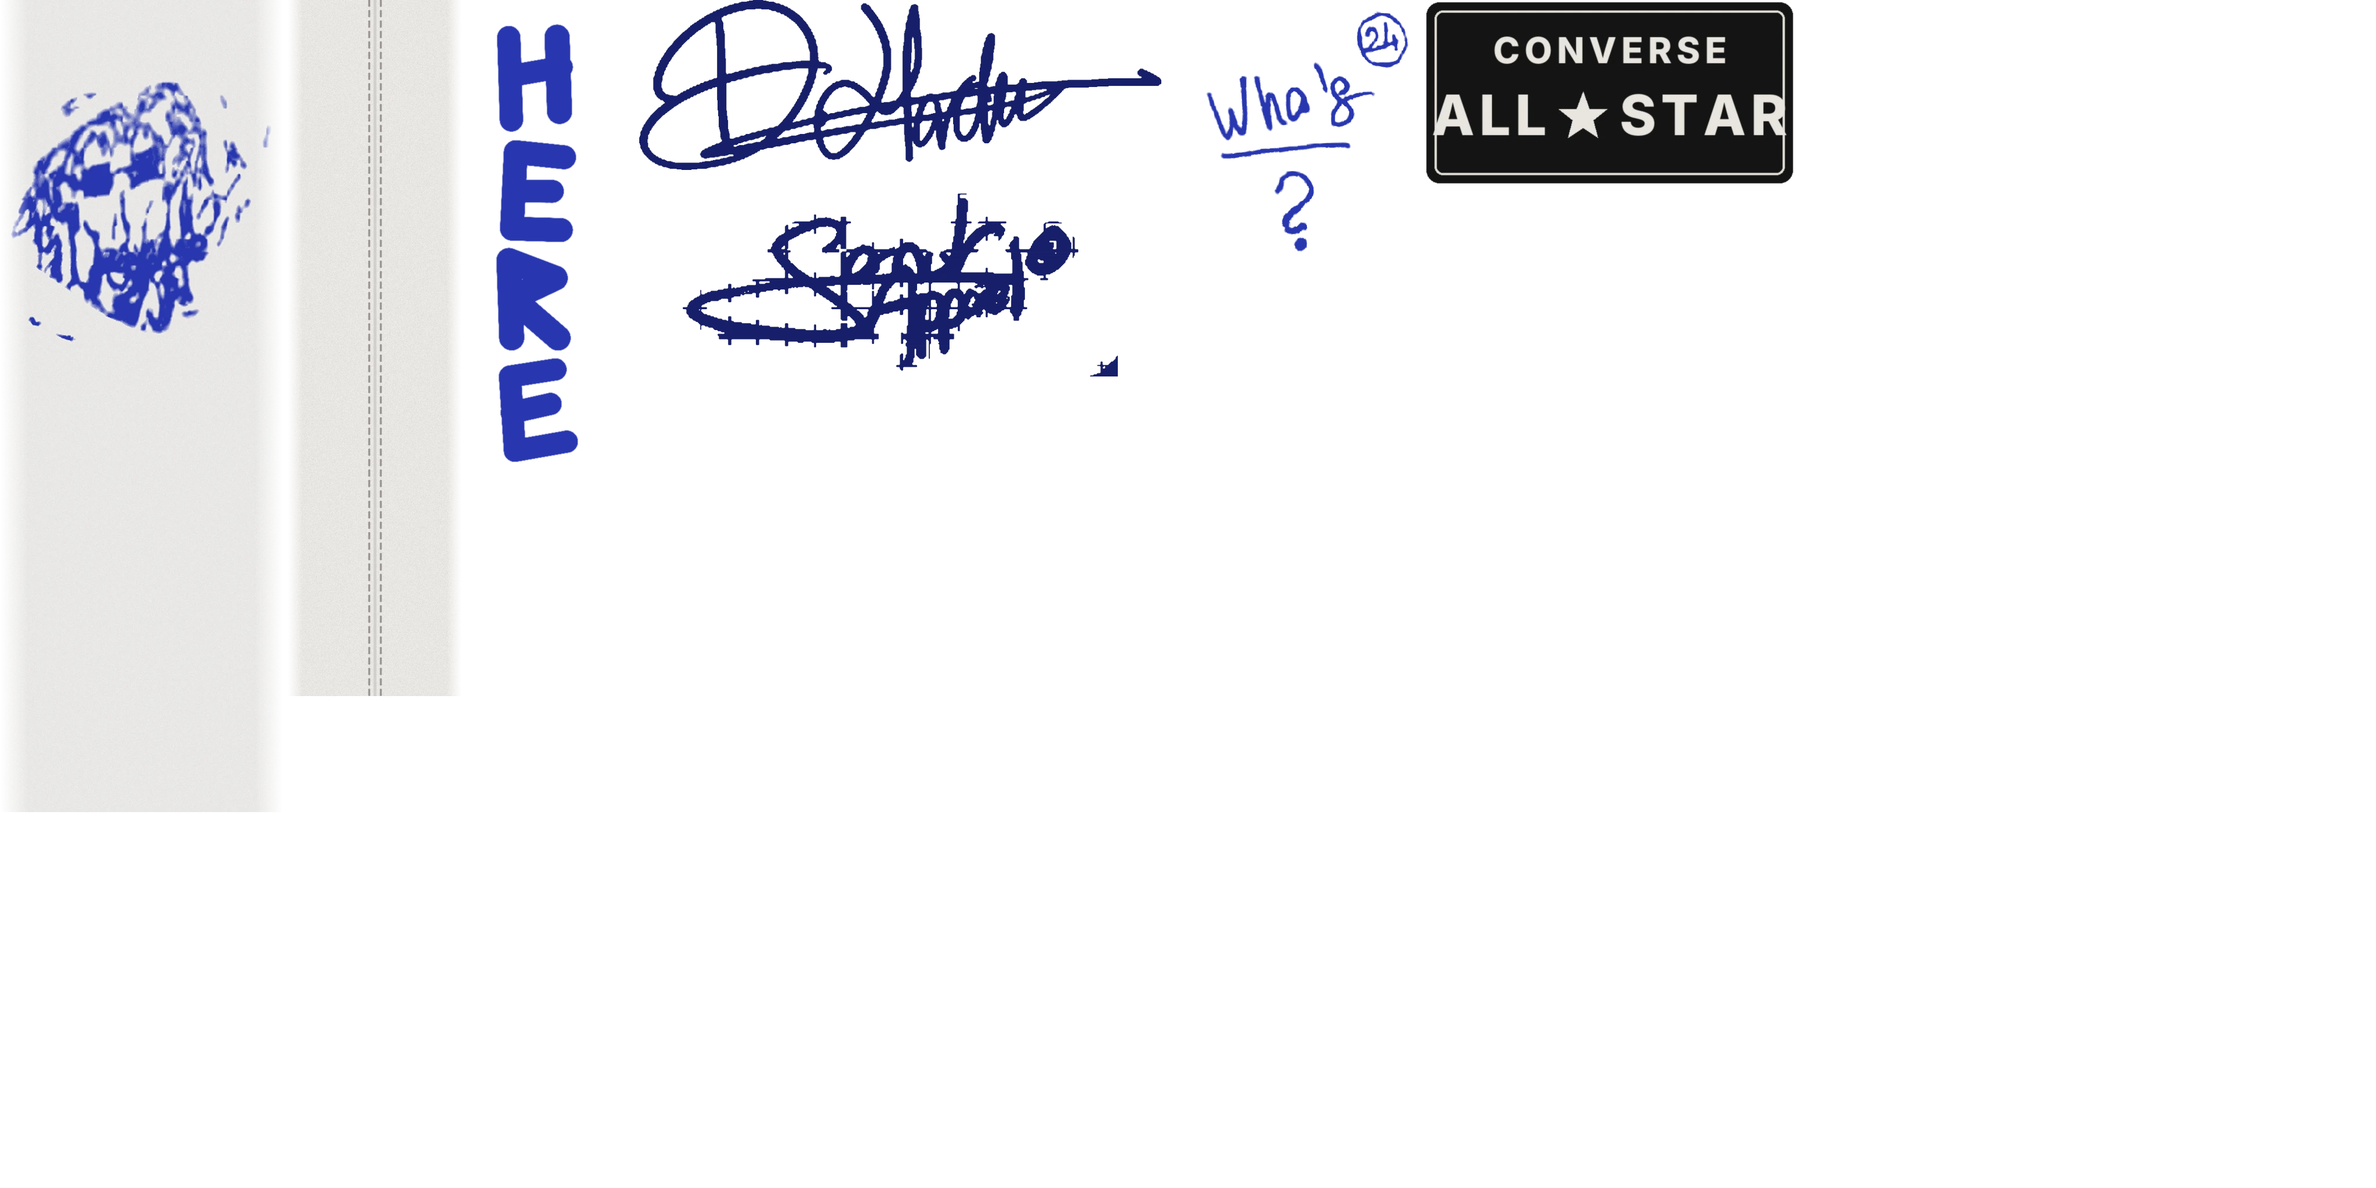
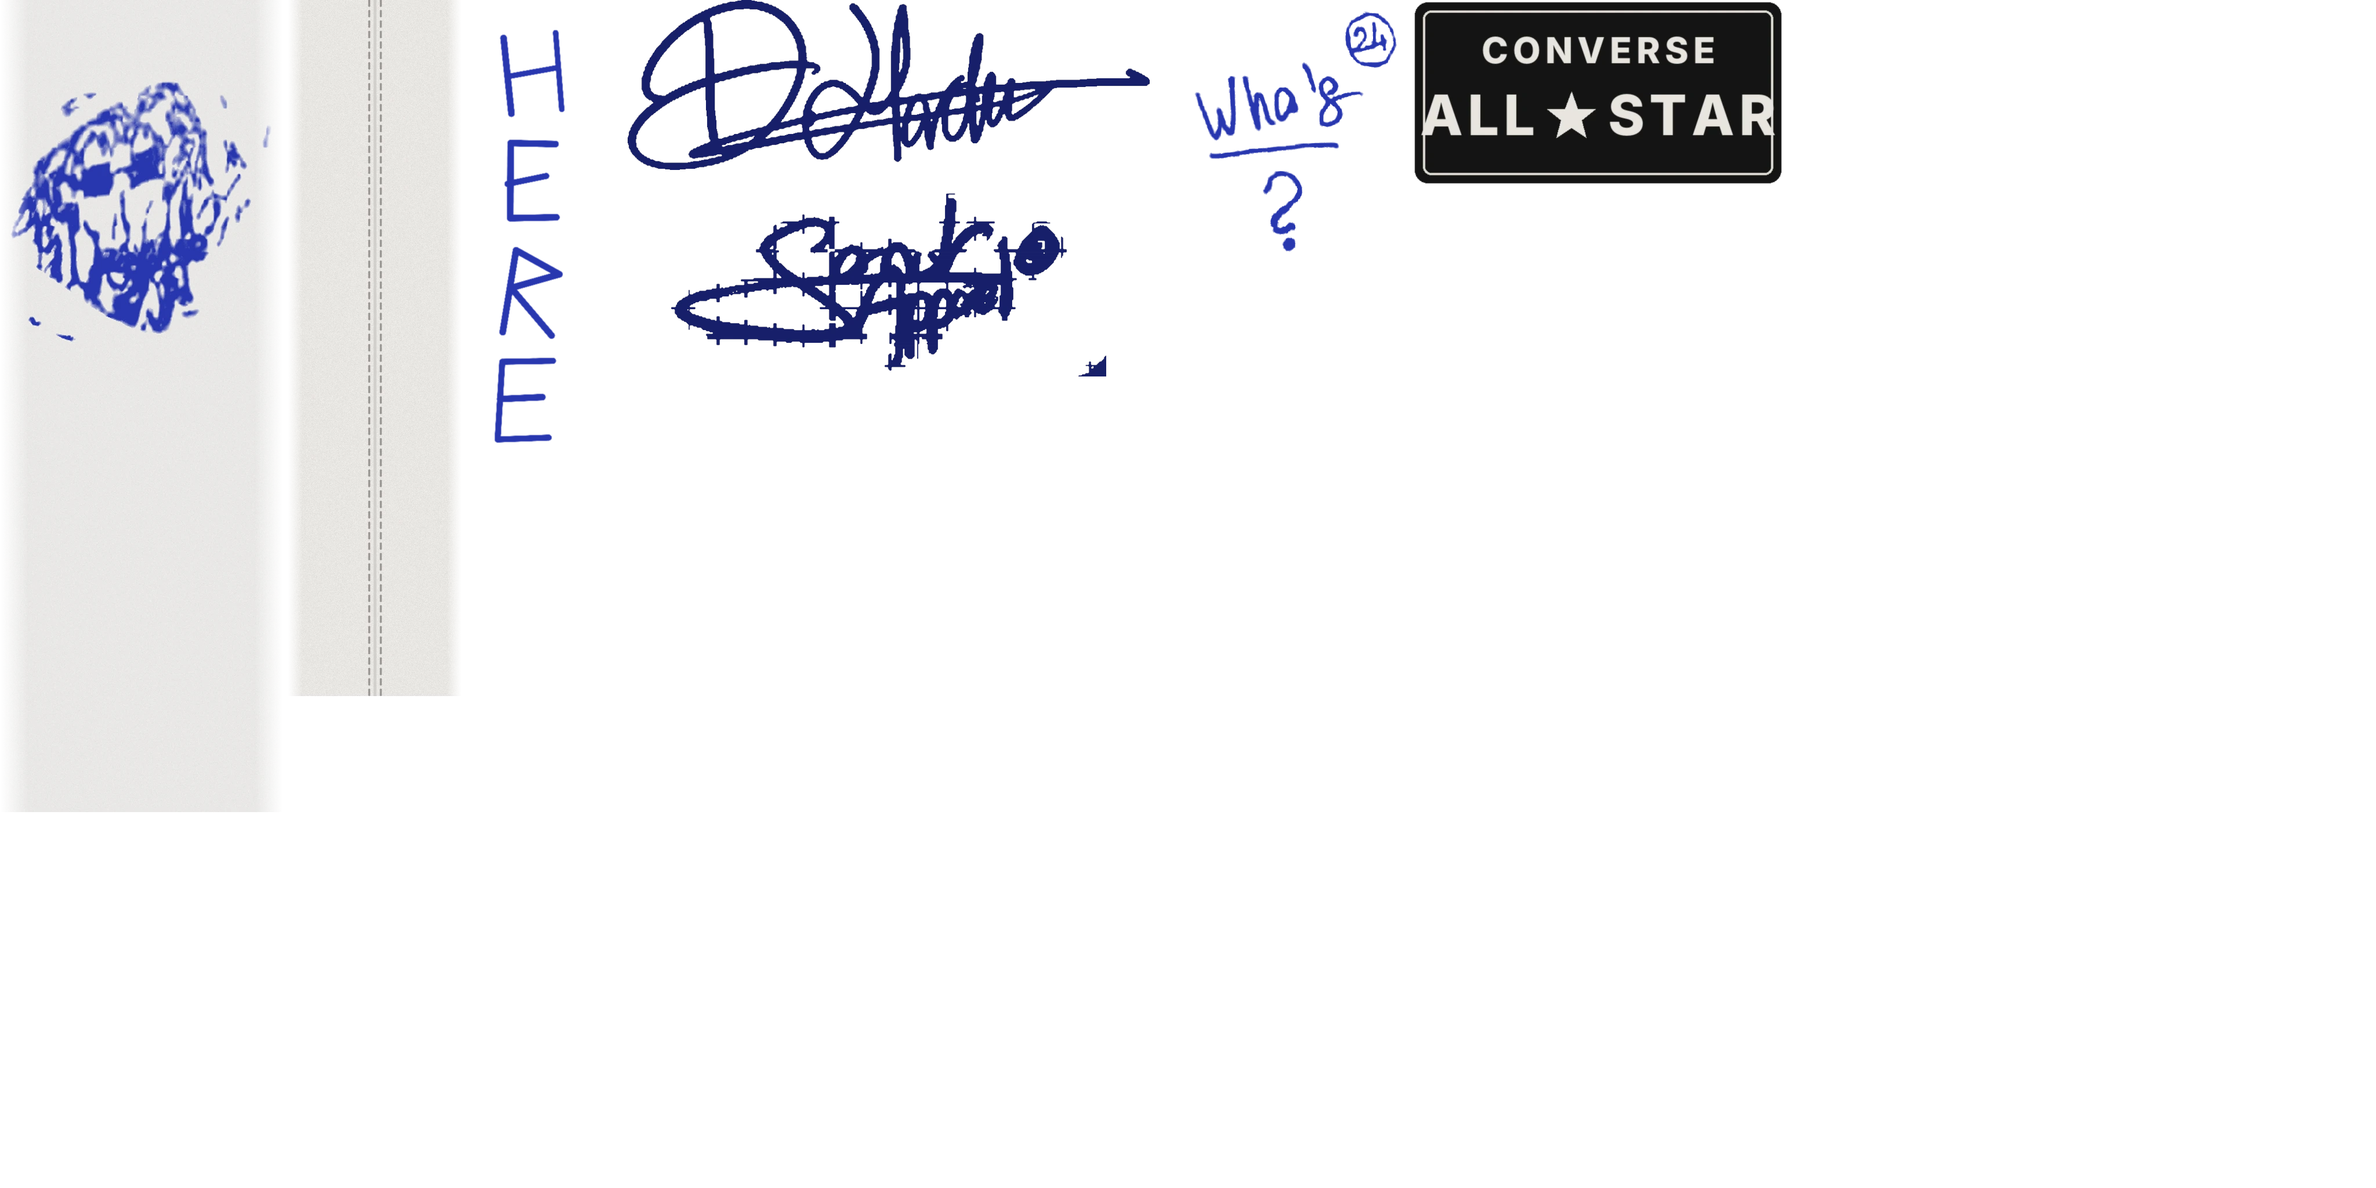
Chuck Taylor All Star: DINHO/HERE redrawn at pen weight to match the drawings
Claude-Session: https://claude.ai/code/session_0114D3hwBVCmsXTQfgBtgPvQ

diff --git a/site/public/collabs/chuck/viewer_dl.html b/site/public/collabs/chuck/viewer_dl.html
@@ -61,7 +61,7 @@
 <div id="osd"><span>SONDR × Chuck Taylor All Star</span><span>By D·Hardin</span><span data-k="side">1 of 1</span></div>
 <button id="swap" type="button">Switch shoe</button>
 <div id="hint"></div>
-<script>window.SHOE_TEX={};window.SHOE_PLAIN={"len": 1.899094045162201, "rot": 3.14159, "x": -0.0008183844275664875, "y": 0.315031198614529, "z": -0.006334423976093603, "decals": [{"tex": "art/heel_back.png", "axis": "x", "n": [1, 0, 0], "c": [0.9, 0.06, 0.0], "w": 0.17, "h": 0.78, "r": [0.1212158203125, 0.414306640625, 0.1942138671875, 0.999755859375]}, {"tex": "art/dinho.png", "axis": "x", "n": [1, 0, 0], "c": [0.9, 0.06, 0.0], "w": 0.14, "h": 0.6, "r": [0.1964111328125, 0.497314453125, 0.2547607421875, 0.999755859375]}, {"tex": "art/heel_tag.webp", "axis": "x", "n": [1, 0, 0], "c": [0.94, -0.485, 0.005], "w": 0.2, "h": 0.1, "r": [0.6029052734375, 0.843994140625, 0.7589111328125, 0.999755859375]}, {"tex": "art/red_tongue_face.png", "n": [-0.7, 0.71, 0], "c": [-0.24, 0.095, 0.0], "w": 0.38, "h": 0.95, "depth": 0.26, "dot": 0.25, "r": [0.0001220703125, 0.316650390625, 0.1190185546875, 0.999755859375]}, {"tex": "art/red_tongue_top.png", "n": [-0.918, 0.394, -0.03], "c": [0.13, 0.5, -0.018], "w": 0.27, "h": 0.22, "r": [0.5030517578125, 0.783935546875, 0.6007080078125, 0.999755859375]}, {"tex": "art/red_vamp_sigs.png", "n": [-0.228, 0.974, 0.0], "c": [-0.592, -0.19, 0.004], "w": 0.2, "h": 0.15, "depth": 0.06, "dot": 0.3, "r": [0.2569580078125, 0.683349609375, 0.5008544921875, 0.999755859375]}], "atlas": "art/red_dl_atlas.webp"};window.SHOE_PLAINS=[{"len": 1.899094045162201, "rot": 3.14159, "x": -0.0008183844275664875, "y": 0.315031198614529, "z": -0.006334423976093603, "decals": [{"tex": "art/heel_back.png", "axis": "x", "n": [1, 0, 0], "c": [0.9, 0.06, 0.0], "w": 0.17, "h": 0.78, "r": [0.1212158203125, 0.414306640625, 0.1942138671875, 0.999755859375]}, {"tex": "art/dinho.png", "axis": "x", "n": [1, 0, 0], "c": [0.9, 0.06, 0.0], "w": 0.14, "h": 0.6, "r": [0.1964111328125, 0.497314453125, 0.2547607421875, 0.999755859375]}, {"tex": "art/heel_tag.webp", "axis": "x", "n": [1, 0, 0], "c": [0.94, -0.485, 0.005], "w": 0.2, "h": 0.1, "r": [0.6029052734375, 0.843994140625, 0.7589111328125, 0.999755859375]}, {"tex": "art/red_tongue_face.png", "n": [-0.7, 0.71, 0], "c": [-0.24, 0.095, 0.0], "w": 0.38, "h": 0.95, "depth": 0.26, "dot": 0.25, "r": [0.0001220703125, 0.316650390625, 0.1190185546875, 0.999755859375]}, {"tex": "art/red_tongue_top.png", "n": [-0.918, 0.394, -0.03], "c": [0.13, 0.5, -0.018], "w": 0.27, "h": 0.22, "r": [0.5030517578125, 0.783935546875, 0.6007080078125, 0.999755859375]}, {"tex": "art/red_vamp_sigs.png", "n": [-0.228, 0.974, 0.0], "c": [-0.592, -0.19, 0.004], "w": 0.2, "h": 0.15, "depth": 0.06, "dot": 0.3, "r": [0.2569580078125, 0.683349609375, 0.5008544921875, 0.999755859375]}], "atlas": "art/red_dl_atlas.webp"}, {"len": 1.897956669330597, "rot": 3.14159, "x": -0.0003866086017067795, "y": 0.3013974216602634, "z": 0.0006739974934986049, "decals": [{"tex": "art/heel_back.png", "axis": "x", "n": [1, 0, 0], "c": [0.88, 0.06, -0.05], "w": 0.17, "h": 0.78, "r": [0.1212158203125, 0.414306640625, 0.1942138671875, 0.999755859375]}, {"tex": "art/here.png", "axis": "x", "n": [1, 0, 0], "c": [0.88, 0.08, -0.05], "w": 0.14, "h": 0.49, "r": [0.1964111328125, 0.590087890625, 0.2547607421875, 0.999755859375]}, {"tex": "art/heel_tag.webp", "axis": "x", "n": [1, 0, 0], "c": [0.94, -0.485, -0.045], "w": 0.2, "h": 0.1, "r": [0.5994873046875, 0.843994140625, 0.7554931640625, 0.999755859375]}, {"tex": "art/blue_tongue_face.png", "n": [-0.7, 0.71, 0], "c": [-0.24, 0.06, -0.04], "w": 0.38, "h": 0.95, "depth": 0.26, "dot": 0.25, "r": [0.0001220703125, 0.316650390625, 0.1190185546875, 0.999755859375]}, {"tex": "art/blue_tongue_top.png", "n": [-0.881, 0.468, -0.067], "c": [0.22, 0.49, -0.06], "w": 0.27, "h": 0.22, "r": [0.5030517578125, 0.779052734375, 0.5972900390625, 0.999755859375]}, {"tex": "art/blue_vamp_sigs.png", "n": [-0.344, 0.924, 0.0], "c": [-0.567, -0.19, -0.02], "w": 0.2, "h": 0.15, "depth": 0.06, "dot": 0.3, "r": [0.2569580078125, 0.683349609375, 0.5008544921875, 0.999755859375]}], "atlas": "art/blue_dl_atlas.webp"}];window.SHOE_GLB_URLS=["red_dl.glb","blue_dl.glb"];window.SHOE_ART=[{"pz": "art/red_pz.webp", "nz": "art/red_nz.webp", "range": [-0.951, 0.95, -0.59, 0.589], "toeFade": [-5, -4.9], "blankN": 1}, {"pz": "art/blue_pz.webp", "nz": "art/blue_nz.webp", "range": [-0.951, 0.95, -0.57, 0.567], "toeFade": [-5, -4.9], "blankP": 1}];</script>
+<script>window.SHOE_TEX={};window.SHOE_PLAIN={"len": 1.899094045162201, "rot": 3.14159, "x": -0.0008183844275664875, "y": 0.315031198614529, "z": -0.006334423976093603, "decals": [{"tex": "art/heel_back.png", "axis": "x", "n": [1, 0, 0], "c": [0.9, 0.06, 0.0], "w": 0.17, "h": 0.78, "r": [0.1212158203125, 0.414306640625, 0.1942138671875, 0.999755859375]}, {"tex": "art/dinho.png", "axis": "x", "n": [1, 0, 0], "c": [0.9, 0.06, 0.0], "w": 0.131, "h": 0.6, "r": [0.1964111328125, 0.507080078125, 0.2498779296875, 0.999755859375]}, {"tex": "art/heel_tag.webp", "axis": "x", "n": [1, 0, 0], "c": [0.94, -0.485, 0.005], "w": 0.2, "h": 0.1, "r": [0.5980224609375, 0.843994140625, 0.7540283203125, 0.999755859375]}, {"tex": "art/red_tongue_face.png", "n": [-0.7, 0.71, 0], "c": [-0.24, 0.095, 0.0], "w": 0.38, "h": 0.95, "depth": 0.26, "dot": 0.25, "r": [0.0001220703125, 0.316650390625, 0.1190185546875, 0.999755859375]}, {"tex": "art/red_tongue_top.png", "n": [-0.918, 0.394, -0.03], "c": [0.13, 0.5, -0.018], "w": 0.27, "h": 0.22, "r": [0.4981689453125, 0.783935546875, 0.5958251953125, 0.999755859375]}, {"tex": "art/red_vamp_sigs.png", "n": [-0.228, 0.974, 0.0], "c": [-0.592, -0.19, 0.004], "w": 0.2, "h": 0.15, "depth": 0.06, "dot": 0.3, "r": [0.2520751953125, 0.683349609375, 0.4959716796875, 0.999755859375]}], "atlas": "art/red_dl_atlas.webp"};window.SHOE_PLAINS=[{"len": 1.899094045162201, "rot": 3.14159, "x": -0.0008183844275664875, "y": 0.315031198614529, "z": -0.006334423976093603, "decals": [{"tex": "art/heel_back.png", "axis": "x", "n": [1, 0, 0], "c": [0.9, 0.06, 0.0], "w": 0.17, "h": 0.78, "r": [0.1212158203125, 0.414306640625, 0.1942138671875, 0.999755859375]}, {"tex": "art/dinho.png", "axis": "x", "n": [1, 0, 0], "c": [0.9, 0.06, 0.0], "w": 0.131, "h": 0.6, "r": [0.1964111328125, 0.507080078125, 0.2498779296875, 0.999755859375]}, {"tex": "art/heel_tag.webp", "axis": "x", "n": [1, 0, 0], "c": [0.94, -0.485, 0.005], "w": 0.2, "h": 0.1, "r": [0.5980224609375, 0.843994140625, 0.7540283203125, 0.999755859375]}, {"tex": "art/red_tongue_face.png", "n": [-0.7, 0.71, 0], "c": [-0.24, 0.095, 0.0], "w": 0.38, "h": 0.95, "depth": 0.26, "dot": 0.25, "r": [0.0001220703125, 0.316650390625, 0.1190185546875, 0.999755859375]}, {"tex": "art/red_tongue_top.png", "n": [-0.918, 0.394, -0.03], "c": [0.13, 0.5, -0.018], "w": 0.27, "h": 0.22, "r": [0.4981689453125, 0.783935546875, 0.5958251953125, 0.999755859375]}, {"tex": "art/red_vamp_sigs.png", "n": [-0.228, 0.974, 0.0], "c": [-0.592, -0.19, 0.004], "w": 0.2, "h": 0.15, "depth": 0.06, "dot": 0.3, "r": [0.2520751953125, 0.683349609375, 0.4959716796875, 0.999755859375]}], "atlas": "art/red_dl_atlas.webp"}, {"len": 1.897956669330597, "rot": 3.14159, "x": -0.0003866086017067795, "y": 0.3013974216602634, "z": 0.0006739974934986049, "decals": [{"tex": "art/heel_back.png", "axis": "x", "n": [1, 0, 0], "c": [0.88, 0.06, -0.05], "w": 0.17, "h": 0.78, "r": [0.1212158203125, 0.414306640625, 0.1942138671875, 0.999755859375]}, {"tex": "art/here.png", "axis": "x", "n": [1, 0, 0], "c": [0.88, 0.08, -0.05], "w": 0.131, "h": 0.49, "r": [0.1964111328125, 0.599853515625, 0.2498779296875, 0.999755859375]}, {"tex": "art/heel_tag.webp", "axis": "x", "n": [1, 0, 0], "c": [0.94, -0.485, -0.045], "w": 0.2, "h": 0.1, "r": [0.5946044921875, 0.843994140625, 0.7506103515625, 0.999755859375]}, {"tex": "art/blue_tongue_face.png", "n": [-0.7, 0.71, 0], "c": [-0.24, 0.06, -0.04], "w": 0.38, "h": 0.95, "depth": 0.26, "dot": 0.25, "r": [0.0001220703125, 0.316650390625, 0.1190185546875, 0.999755859375]}, {"tex": "art/blue_tongue_top.png", "n": [-0.881, 0.468, -0.067], "c": [0.22, 0.49, -0.06], "w": 0.27, "h": 0.22, "r": [0.4981689453125, 0.779052734375, 0.5924072265625, 0.999755859375]}, {"tex": "art/blue_vamp_sigs.png", "n": [-0.344, 0.924, 0.0], "c": [-0.567, -0.19, -0.02], "w": 0.2, "h": 0.15, "depth": 0.06, "dot": 0.3, "r": [0.2520751953125, 0.683349609375, 0.4959716796875, 0.999755859375]}], "atlas": "art/blue_dl_atlas.webp"}];window.SHOE_GLB_URLS=["red_dl.glb","blue_dl.glb"];window.SHOE_ART=[{"pz": "art/red_pz.webp", "nz": "art/red_nz.webp", "range": [-0.951, 0.95, -0.59, 0.589], "toeFade": [-5, -4.9], "blankN": 1}, {"pz": "art/blue_pz.webp", "nz": "art/blue_nz.webp", "range": [-0.951, 0.95, -0.57, 0.567], "toeFade": [-5, -4.9], "blankP": 1}];</script>
 <script src="viewer.js"></script>
 <button id="lace" type="button" style="position:fixed;left:32px;bottom:26px;z-index:4;background:none;border:0;padding:10px 0;min-height:44px;font-size:12px;font-weight:600;letter-spacing:.16em;text-transform:uppercase;color:#111;opacity:0;pointer-events:none;transition:opacity .5s;cursor:pointer;text-decoration:underline;text-underline-offset:4px">Lace up</button>
 <script>(function(){var b=document.getElementById('lace'),cur=null;

diff --git a/site/public/collabs/chuck/viewer.html b/site/public/collabs/chuck/viewer.html
@@ -61,7 +61,7 @@
 <div id="osd"><span>SONDR × Chuck Taylor All Star</span><span>By D·Hardin</span><span data-k="side">1 of 1</span></div>
 <button id="swap" type="button">Switch shoe</button>
 <div id="hint"></div>
-<script>window.SHOE_TEX={};window.SHOE_PLAIN={"len": 1.899094045162201, "rot": 3.14159, "x": -0.0008183844275664875, "y": 0.315031198614529, "z": -0.006334423976093603, "decals": [{"tex": "art/heel_back.png", "axis": "x", "n": [1, 0, 0], "c": [0.9, 0.06, 0.0], "w": 0.17, "h": 0.78, "r": [0.0001220703125, 0.414306640625, 0.0731201171875, 0.999755859375]}, {"tex": "art/dinho.png", "axis": "x", "n": [1, 0, 0], "c": [0.9, 0.06, 0.0], "w": 0.14, "h": 0.6, "r": [0.0753173828125, 0.497314453125, 0.1336669921875, 0.999755859375]}, {"tex": "art/red_tongue_top.png", "n": [-0.918, 0.394, -0.03], "c": [0.13, 0.5, -0.018], "w": 0.27, "h": 0.22, "r": [0.3819580078125, 0.783935546875, 0.4796142578125, 0.999755859375]}, {"tex": "art/red_vamp_sigs.png", "n": [-0.228, 0.974, 0.0], "c": [-0.592, -0.19, 0.004], "w": 0.2, "h": 0.15, "depth": 0.06, "dot": 0.3, "r": [0.1358642578125, 0.683349609375, 0.3797607421875, 0.999755859375]}, {"tex": "art/heel_tag.webp", "axis": "x", "n": [1, 0, 0], "c": [0.94, -0.485, 0.005], "w": 0.2, "h": 0.1, "r": [0.4818115234375, 0.843994140625, 0.6378173828125, 0.999755859375]}], "atlas": "art/red_atlas.webp"};window.SHOE_PLAINS=[{"len": 1.899094045162201, "rot": 3.14159, "x": -0.0008183844275664875, "y": 0.315031198614529, "z": -0.006334423976093603, "decals": [{"tex": "art/heel_back.png", "axis": "x", "n": [1, 0, 0], "c": [0.9, 0.06, 0.0], "w": 0.17, "h": 0.78, "r": [0.0001220703125, 0.414306640625, 0.0731201171875, 0.999755859375]}, {"tex": "art/dinho.png", "axis": "x", "n": [1, 0, 0], "c": [0.9, 0.06, 0.0], "w": 0.14, "h": 0.6, "r": [0.0753173828125, 0.497314453125, 0.1336669921875, 0.999755859375]}, {"tex": "art/red_tongue_top.png", "n": [-0.918, 0.394, -0.03], "c": [0.13, 0.5, -0.018], "w": 0.27, "h": 0.22, "r": [0.3819580078125, 0.783935546875, 0.4796142578125, 0.999755859375]}, {"tex": "art/red_vamp_sigs.png", "n": [-0.228, 0.974, 0.0], "c": [-0.592, -0.19, 0.004], "w": 0.2, "h": 0.15, "depth": 0.06, "dot": 0.3, "r": [0.1358642578125, 0.683349609375, 0.3797607421875, 0.999755859375]}, {"tex": "art/heel_tag.webp", "axis": "x", "n": [1, 0, 0], "c": [0.94, -0.485, 0.005], "w": 0.2, "h": 0.1, "r": [0.4818115234375, 0.843994140625, 0.6378173828125, 0.999755859375]}], "atlas": "art/red_atlas.webp"}, {"len": 1.897956669330597, "rot": 3.14159, "x": -0.0003866086017067795, "y": 0.3013974216602634, "z": 0.0006739974934986049, "decals": [{"tex": "art/heel_back.png", "axis": "x", "n": [1, 0, 0], "c": [0.88, 0.06, -0.05], "w": 0.17, "h": 0.78, "r": [0.0001220703125, 0.414306640625, 0.0731201171875, 0.999755859375]}, {"tex": "art/here.png", "axis": "x", "n": [1, 0, 0], "c": [0.88, 0.08, -0.05], "w": 0.14, "h": 0.49, "r": [0.0753173828125, 0.590087890625, 0.1336669921875, 0.999755859375]}, {"tex": "art/blue_tongue_top.png", "n": [-0.881, 0.468, -0.067], "c": [0.22, 0.49, -0.06], "w": 0.27, "h": 0.22, "r": [0.3819580078125, 0.779052734375, 0.4761962890625, 0.999755859375]}, {"tex": "art/blue_vamp_sigs.png", "n": [-0.344, 0.924, 0.0], "c": [-0.567, -0.19, -0.02], "w": 0.2, "h": 0.15, "depth": 0.06, "dot": 0.3, "r": [0.1358642578125, 0.683349609375, 0.3797607421875, 0.999755859375]}, {"tex": "art/heel_tag.webp", "axis": "x", "n": [1, 0, 0], "c": [0.94, -0.485, -0.045], "w": 0.2, "h": 0.1, "r": [0.4783935546875, 0.843994140625, 0.6343994140625, 0.999755859375]}], "atlas": "art/blue_atlas.webp"}];window.SHOE_GLB_URLS=["red.glb","blue.glb"];window.SHOE_ART=[{"pz": "art/red_pz.webp", "nz": "art/red_nz.webp", "range": [-0.951, 0.95, -0.59, 0.589], "toeFade": [-5, -4.9], "blankN": 1}, {"pz": "art/blue_pz.webp", "nz": "art/blue_nz.webp", "range": [-0.951, 0.95, -0.57, 0.567], "toeFade": [-5, -4.9], "blankP": 1}];</script>
+<script>window.SHOE_TEX={};window.SHOE_PLAIN={"len": 1.899094045162201, "rot": 3.14159, "x": -0.0008183844275664875, "y": 0.315031198614529, "z": -0.006334423976093603, "decals": [{"tex": "art/heel_back.png", "axis": "x", "n": [1, 0, 0], "c": [0.9, 0.06, 0.0], "w": 0.17, "h": 0.78, "r": [0.0001220703125, 0.414306640625, 0.0731201171875, 0.999755859375]}, {"tex": "art/dinho.png", "axis": "x", "n": [1, 0, 0], "c": [0.9, 0.06, 0.0], "w": 0.131, "h": 0.6, "r": [0.0753173828125, 0.507080078125, 0.1287841796875, 0.999755859375]}, {"tex": "art/red_tongue_top.png", "n": [-0.918, 0.394, -0.03], "c": [0.13, 0.5, -0.018], "w": 0.27, "h": 0.22, "r": [0.3770751953125, 0.783935546875, 0.4747314453125, 0.999755859375]}, {"tex": "art/red_vamp_sigs.png", "n": [-0.228, 0.974, 0.0], "c": [-0.592, -0.19, 0.004], "w": 0.2, "h": 0.15, "depth": 0.06, "dot": 0.3, "r": [0.1309814453125, 0.683349609375, 0.3748779296875, 0.999755859375]}, {"tex": "art/heel_tag.webp", "axis": "x", "n": [1, 0, 0], "c": [0.94, -0.485, 0.005], "w": 0.2, "h": 0.1, "r": [0.4769287109375, 0.843994140625, 0.6329345703125, 0.999755859375]}], "atlas": "art/red_atlas.webp"};window.SHOE_PLAINS=[{"len": 1.899094045162201, "rot": 3.14159, "x": -0.0008183844275664875, "y": 0.315031198614529, "z": -0.006334423976093603, "decals": [{"tex": "art/heel_back.png", "axis": "x", "n": [1, 0, 0], "c": [0.9, 0.06, 0.0], "w": 0.17, "h": 0.78, "r": [0.0001220703125, 0.414306640625, 0.0731201171875, 0.999755859375]}, {"tex": "art/dinho.png", "axis": "x", "n": [1, 0, 0], "c": [0.9, 0.06, 0.0], "w": 0.131, "h": 0.6, "r": [0.0753173828125, 0.507080078125, 0.1287841796875, 0.999755859375]}, {"tex": "art/red_tongue_top.png", "n": [-0.918, 0.394, -0.03], "c": [0.13, 0.5, -0.018], "w": 0.27, "h": 0.22, "r": [0.3770751953125, 0.783935546875, 0.4747314453125, 0.999755859375]}, {"tex": "art/red_vamp_sigs.png", "n": [-0.228, 0.974, 0.0], "c": [-0.592, -0.19, 0.004], "w": 0.2, "h": 0.15, "depth": 0.06, "dot": 0.3, "r": [0.1309814453125, 0.683349609375, 0.3748779296875, 0.999755859375]}, {"tex": "art/heel_tag.webp", "axis": "x", "n": [1, 0, 0], "c": [0.94, -0.485, 0.005], "w": 0.2, "h": 0.1, "r": [0.4769287109375, 0.843994140625, 0.6329345703125, 0.999755859375]}], "atlas": "art/red_atlas.webp"}, {"len": 1.897956669330597, "rot": 3.14159, "x": -0.0003866086017067795, "y": 0.3013974216602634, "z": 0.0006739974934986049, "decals": [{"tex": "art/heel_back.png", "axis": "x", "n": [1, 0, 0], "c": [0.88, 0.06, -0.05], "w": 0.17, "h": 0.78, "r": [0.0001220703125, 0.414306640625, 0.0731201171875, 0.999755859375]}, {"tex": "art/here.png", "axis": "x", "n": [1, 0, 0], "c": [0.88, 0.08, -0.05], "w": 0.131, "h": 0.49, "r": [0.0753173828125, 0.599853515625, 0.1287841796875, 0.999755859375]}, {"tex": "art/blue_tongue_top.png", "n": [-0.881, 0.468, -0.067], "c": [0.22, 0.49, -0.06], "w": 0.27, "h": 0.22, "r": [0.3770751953125, 0.779052734375, 0.4713134765625, 0.999755859375]}, {"tex": "art/blue_vamp_sigs.png", "n": [-0.344, 0.924, 0.0], "c": [-0.567, -0.19, -0.02], "w": 0.2, "h": 0.15, "depth": 0.06, "dot": 0.3, "r": [0.1309814453125, 0.683349609375, 0.3748779296875, 0.999755859375]}, {"tex": "art/heel_tag.webp", "axis": "x", "n": [1, 0, 0], "c": [0.94, -0.485, -0.045], "w": 0.2, "h": 0.1, "r": [0.4735107421875, 0.843994140625, 0.6295166015625, 0.999755859375]}], "atlas": "art/blue_atlas.webp"}];window.SHOE_GLB_URLS=["red.glb","blue.glb"];window.SHOE_ART=[{"pz": "art/red_pz.webp", "nz": "art/red_nz.webp", "range": [-0.951, 0.95, -0.59, 0.589], "toeFade": [-5, -4.9], "blankN": 1}, {"pz": "art/blue_pz.webp", "nz": "art/blue_nz.webp", "range": [-0.951, 0.95, -0.57, 0.567], "toeFade": [-5, -4.9], "blankP": 1}];</script>
 <script src="viewer.js"></script>
 <button id="lace" type="button" style="position:fixed;left:32px;bottom:26px;z-index:4;background:none;border:0;padding:10px 0;min-height:44px;font-size:12px;font-weight:600;letter-spacing:.16em;text-transform:uppercase;color:#111;opacity:0;pointer-events:none;transition:opacity .5s;cursor:pointer;text-decoration:underline;text-underline-offset:4px">Delace</button>
 <script>(function(){var b=document.getElementById('lace'),cur=null;
